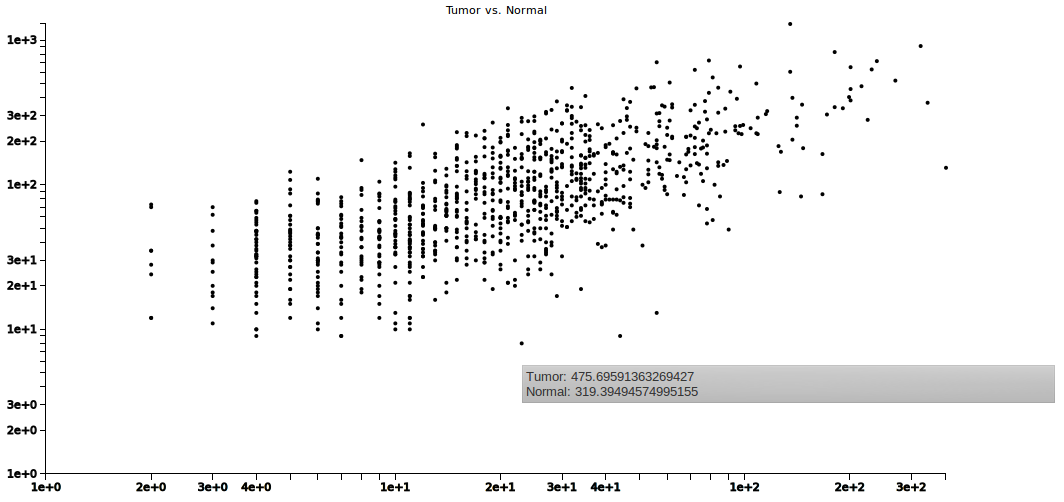
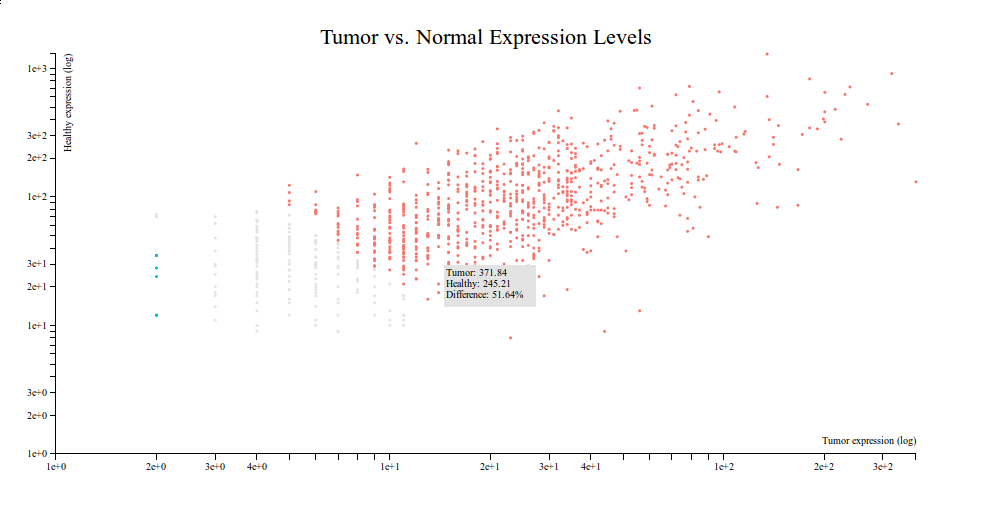
update of pjotrs figure

diff --git a/Rat-figure (d3)/pjotr.html b/Rat-figure (d3)/pjotr.html
@@ -2,8 +2,19 @@
 <meta charset="utf-8">
 <style>
 
-body {
-  font: 11px sans-serif;
+body {font-size:10px;
+  font-family:"Times New Roman", Times, serif;
+}
+div.tooltip {   
+  position: absolute;           
+  text-align: left;           
+  width: 88px;                  
+  height: 38px;                 
+  padding: 2px;                   
+  background: #E3E3E3;   
+  border: 1px;      
+  border-radius: 0px;           
+  pointer-events: none;         
 }
 
 .axis path,
@@ -50,7 +61,7 @@ function fetch_data() {
 
 // Global initialisations
 
-var margin = {top: 20, right: 20, bottom: 30, left: 40},
+var margin = {top: 50, right: 50, bottom: 50, left: 50},
     width = 960 - margin.left - margin.right,
     height = 500 - margin.top - margin.bottom;
 
@@ -61,6 +72,8 @@ var y = d3.scale.log()
     .range([height, 0]);
 
 var color = d3.scale.category10();
+
+
 
 // the chart object, includes all margins
 var chart = d3.select('body')
@@ -84,6 +97,10 @@ var yAxis = d3.svg.axis()
     .scale(y)
     .orient("left");
 
+var div = d3.select("body").append("div")   
+    .attr("class", "tooltip")               
+    .style("opacity", 0);
+
 var svg = d3.select("body").append("svg")
     .attr("width", width + margin.left + margin.right)
     .attr("height", height + margin.top + margin.bottom)
@@ -102,6 +119,18 @@ var rescale = function() {
             .domain([1, d3.max(ydata)])
             .range([ height, 0 ]);
 
+  x2 = d3.scale.linear()
+            .domain([ 0, width ])        
+            .range([0, d3.max(xdata)]); 
+
+  y2 = d3.scale.linear()
+            .domain([ height, 0 ])
+            .range([0, d3.max(ydata)]);
+
+
+
+
+
   // redraw the x axis
   var xAxis = d3.svg.axis()
     .scale(x)
@@ -110,8 +139,15 @@ var rescale = function() {
   main.append('g')
   .attr('transform', 'translate(0,' + height + ')')
   .attr('class', 'main axis date')
-  .style({ 'stroke': 'Black', 'fill': 'Black', 'stroke-width': '1px', 'text' : 'hoi'})
-  .call(xAxis);
+  .style({ 'stroke': 'none', 'fill': 'Black', 'stroke-width': '1px', 'text' : 'hoi'})
+  .call(xAxis)
+  .append("text") 
+    .attr("class", "label")
+  .attr("x", width)
+  .attr("y", -10)
+  .style("text-anchor", "end")
+  .text("Tumor expression (log)") 
+
 
   // redraw the y axis
   var yAxis = d3.svg.axis()
@@ -121,8 +157,14 @@ var rescale = function() {
   main.append('g')
     .attr('transform', 'translate(0,0)')
     .attr('class', 'main axis date')
-    .style({ 'stroke': 'Black', 'fill': 'none', 'stroke-width': '1px'})
-    .call(yAxis);
+  .style({ 'stroke': 'none', 'fill': 'Black', 'stroke-width': '1px', 'text' : 'hoi'})
+    .call(yAxis)
+    .append("text") // Title Y-axis
+    .attr("class", "label")
+    .attr("transform", "rotate(-90)")
+    .attr("y", 15)
+    .style("text-anchor", "end")
+    .text("Healthy expression (log)") 
 }
 
 var refresh = function() {
@@ -132,19 +174,43 @@ var refresh = function() {
     .attr("x", width / 2 )
     .attr("y", -10)
     .style("text-anchor", "middle")
-    .text("Tumor vs. Normal");
+    .attr("font-size", "22px")
+    .text("Tumor vs. Normal Expression Levels");
 
   var dots = g.selectAll("scatter-dots")
     .data(ydata)  // using the values in the ydata array
     .enter().append("svg:circle")  // create a new circle for each value
         .attr("cy", function (d) { return y(d); } ) // translate y value to a pixel
         .attr("cx", function (d,i) { return x(xdata[i]); } ) // translate x value
-        .attr("r",2) // radius of circle
-        .attr("fill", function(d,i) { return color.range()[10]; }) 
-        .append("svg:title")
-        .text(function(d, i) { return "Tumor: " + x(xdata[i]) + "\n" + "Normal: " + y(ydata[i]); })
-        .style("opacity", 1); // opacity of circle
-        // .text(function(d,i) { return labels[i]; })
+        .attr("r",1.5) // radius of circle
+        .attr("fill", function(d,i) { if ( (x(xdata[i]) - y(ydata[i]))/y(ydata[i]) < -0.5 ) {return d3.rgb(0, 191, 196);} else if ( (x(xdata[i]) - y(ydata[i]))/y(ydata[i]) > 0.5 ) {return d3.rgb(248, 118, 109);} else {return d3.rgb(227, 227, 227);}
+
+      }) 
+        // .append("svg:title")
+        // .text(function(d, i) { return "Tumor: " + x(xdata[i]) + "\n" + "Normal: " + y(ydata[i]); })
+        // .style("opacity", 1); // opacity of circle
+ .on("mouseover", function(d,i) { 
+    d3.select(this)
+      .transition()
+      // .style("fill", "#e8f00c")
+      // .attr("r", 12)
+      // .style('fill-opacity', '0.75');
+    div.transition()        
+      .duration(200)      
+      .style("opacity", 1);      
+    div .html("Tumor: " + (Math.round(x(xdata[i])* 100) / 100) + "<br/>" + "Healthy: " + (Math.round(y(ydata[i])* 100) / 100) + "<br/>"  + "Difference: " + (Math.round(((x(xdata[i]) - y(ydata[i]))/y(ydata[i])*100)* 100) / 100) + "%")  
+      .style("left", (d3.event.pageX + 15) + "px")     
+      .style("top", (d3.event.pageY - 35) + "px"); })
+.on("mouseout", function(d,i) {
+    // d3.select(this)
+    //   .transition()
+    //   .style("fill", function(d,i) { return d3.rgb(255 * x2(d3.event.pageX) / (y2(d3.event.pageY - 50)), 0, 255 * (y2(d3.event.pageY - 50)) / x2(d3.event.pageX) ); })
+    //   .attr("r", 4)
+    //   .style('fill-opacity', '1');     
+    // div.transition()        
+    //   .duration(500)      
+    //   .style("opacity", 0);  
+  })
 }  
 
 var g = main.append("svg:g"); 
@@ -156,4 +222,6 @@ $.when( fetch_data() )
     refresh()
   } );
 
-</script>
+
+
+  </script>
